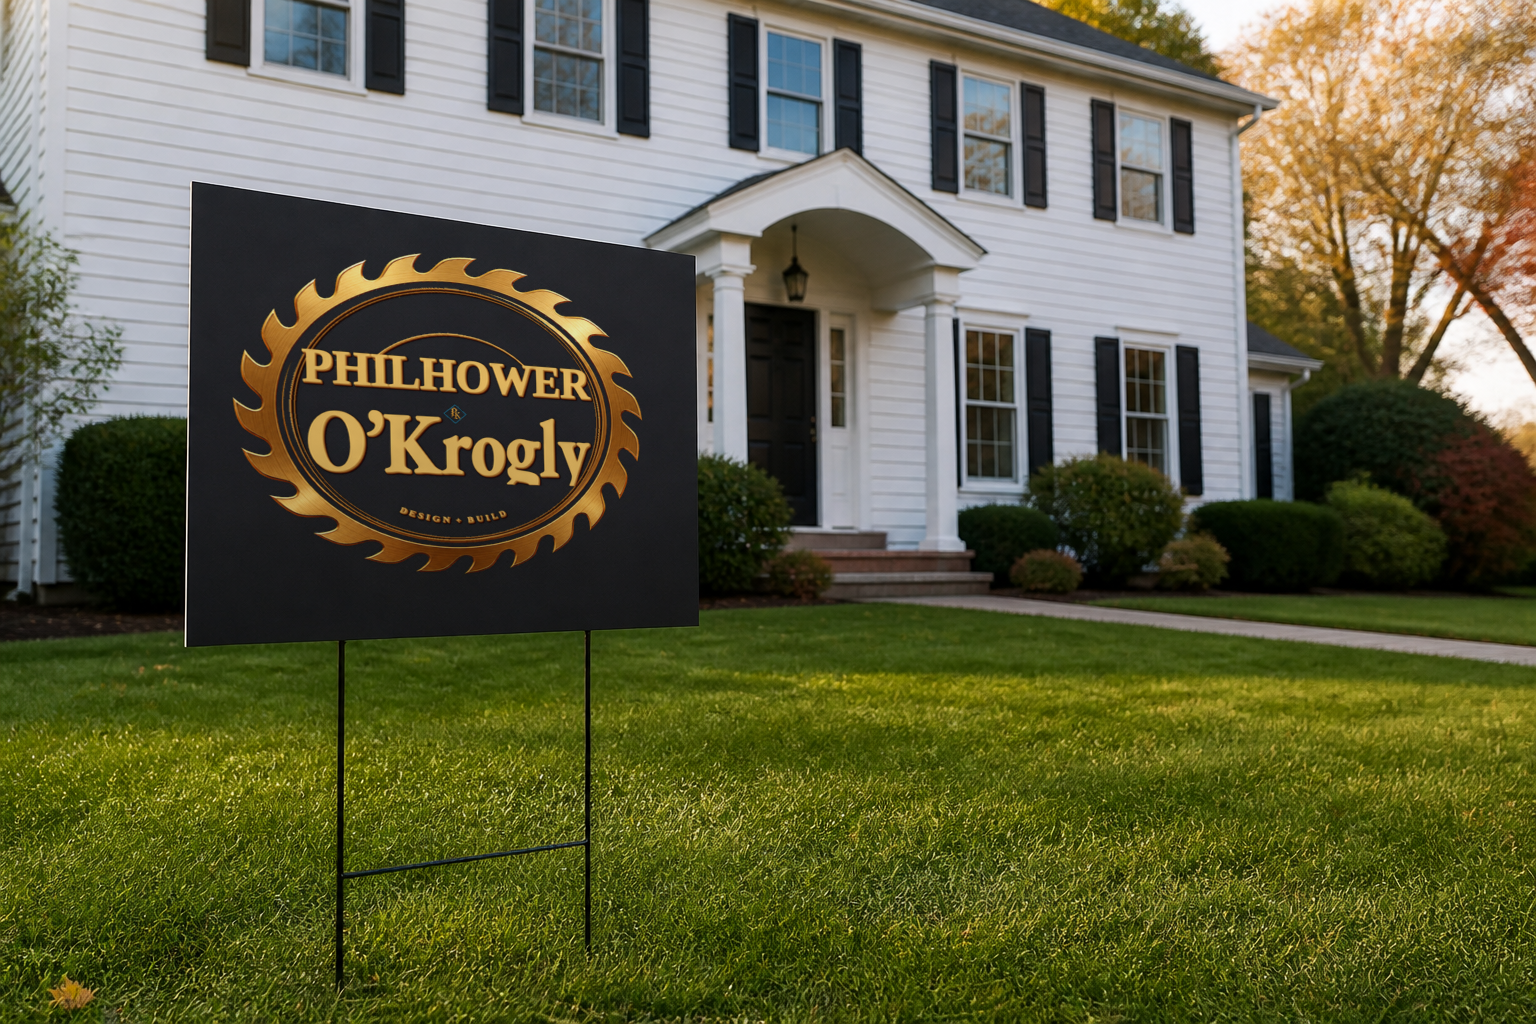
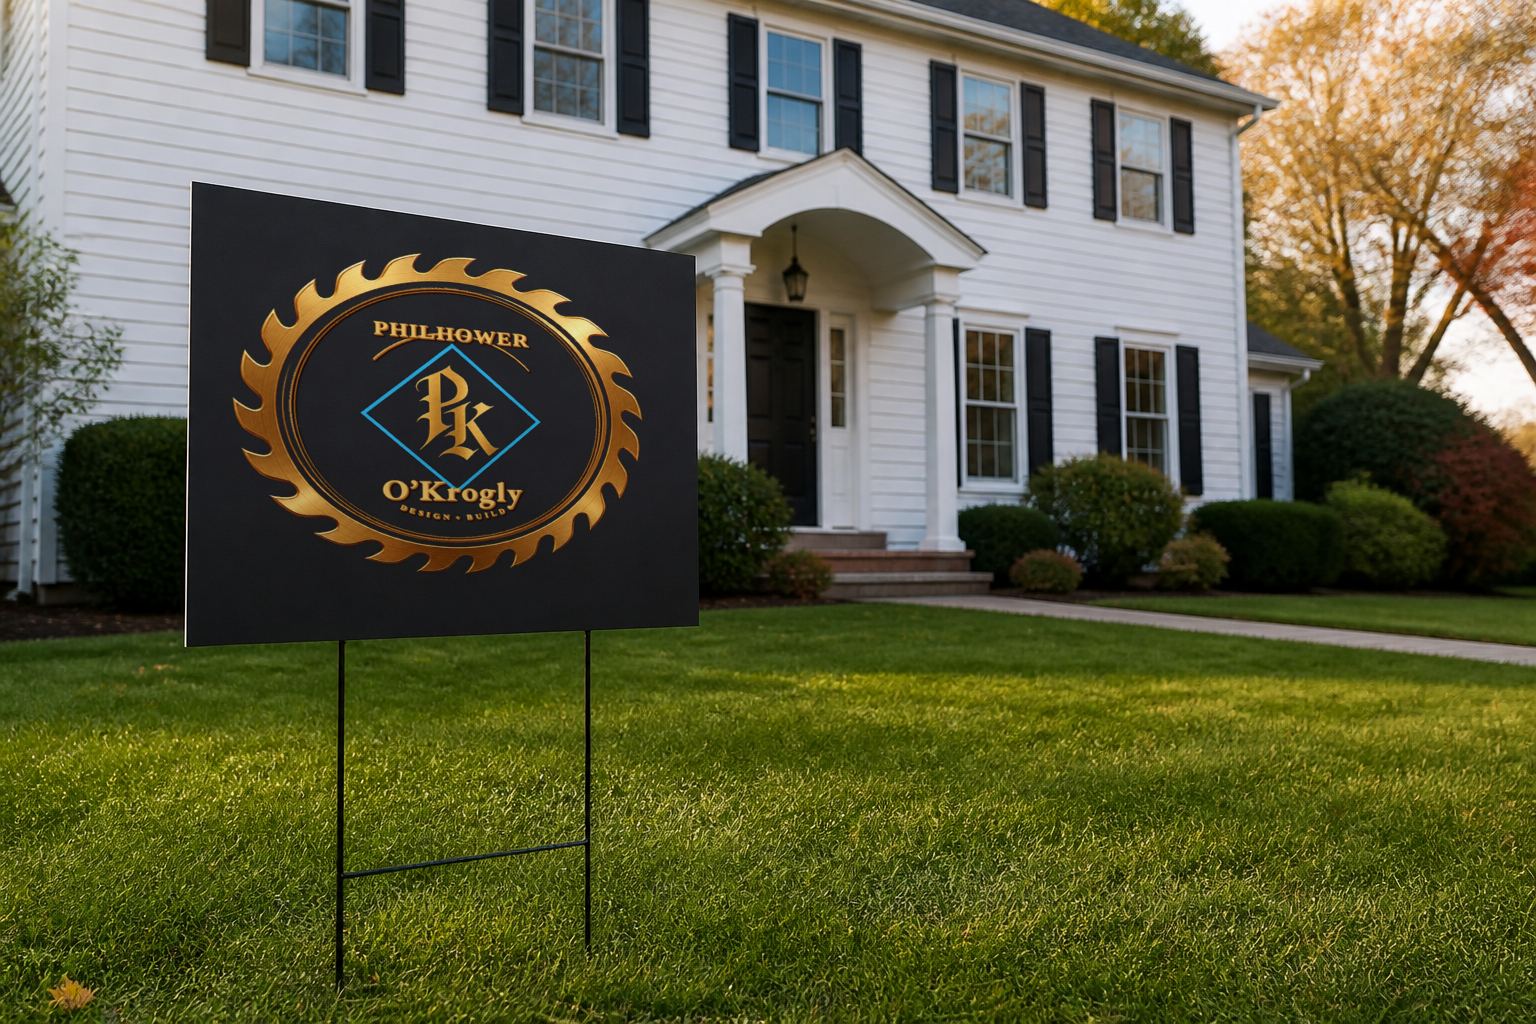
Make the cyan PK diamond the focus of the POK seal.
Names stay Times and Garamond on the rings. No house or hammer —
that is the generic NJ carpenter badge. Theme 1.0.27 / brands-print-20.

Changed region(s): [[0.1875, 0.3125, 0.4062, 0.5312]]

diff --git a/dphilhower-studio-wp/preview/work/philhower-okrogly/index.html b/dphilhower-studio-wp/preview/work/philhower-okrogly/index.html
@@ -41,7 +41,7 @@
         <li><strong>Place</strong><br>Northern New Jersey</li>
       </ul>
       <div class="entry-content">
-        <p>Hills blade, double ring, top arc. Big type like Service The Hills: PHILHOWER in modern Times New Roman, cyan PK diamond, O’Krogly in Garamond filling the field. DESIGN + BUILD on the bottom arc.</p>
+        <p>Hills blade, double ring, top arc. The cyan PK diamond is the mark. PHILHOWER in Times, O’Krogly in Garamond on the rings. DESIGN + BUILD on the bottom arc.</p>
         <p>One lockup. Polo, van, yard, card, fridge. Black field so gold reads. Blue is only the diamond.</p>
       </div>
     </article>
@@ -56,7 +56,7 @@
         </figure>
         <figure>
           <img src="../../img/pok-print-shirt.png" alt="Black polo with the Philhower &amp; O’Krogly saw-blade lockup centered on the chest" width="1536" height="1024">
-          <figcaption><strong>Polo</strong> Center chest. Times, cyan PK diamond, Garamond — one lockup.</figcaption>
+          <figcaption><strong>Polo</strong> Center chest. Cyan PK diamond is the focus; Times and Garamond on the rings.</figcaption>
         </figure>
         <figure>
           <img src="../../img/pok-print-van.png" alt="Matte black van with the Philhower &amp; O’Krogly saw-blade lockup on the side" width="1536" height="1024">

diff --git a/dphilhower-studio-wp/theme/dphilhower-studio/style.css b/dphilhower-studio-wp/theme/dphilhower-studio/style.css
@@ -4,7 +4,7 @@ Theme URI: https://dphilhower.com
 Author: D Philhower Studio
 Author URI: https://dphilhower.com
 Description: Custom graphic design studio theme for D Philhower Studio at dphilhower.com — portfolio, services, about, and project inquiries. Activate the theme to load demo pages and work samples.
-Version: 1.0.26
+Version: 1.0.27
 Requires at least: 6.4
 Tested up to: 6.8
 Requires PHP: 7.4

diff --git a/dphilhower-studio-wp/theme/dphilhower-studio/inc/brand-kits.php b/dphilhower-studio-wp/theme/dphilhower-studio/inc/brand-kits.php
@@ -289,7 +289,7 @@ function dps_brand_kits() {
 		'philhower-okrogly'        => array(
 			'label'  => __( 'Print system', 'dphilhower-studio' ),
 			'title'  => __( 'One lockup, five scales', 'dphilhower-studio' ),
-			'intro'  => __( 'Hills blade, double ring, top arc. Big type like Service The Hills: Times PHILHOWER, cyan PK diamond, Garamond O’Krogly filling the field. DESIGN + BUILD on the bottom arc. Polo, van, yard, card, fridge — one lockup.', 'dphilhower-studio' ),
+			'intro'  => __( 'Hills blade, double ring, top arc. The cyan PK diamond is the mark. Times PHILHOWER and Garamond O’Krogly on the rings. DESIGN + BUILD on the bottom arc. Polo, van, yard, card, fridge — one lockup.', 'dphilhower-studio' ),
 			'pieces' => array(
 				array(
 					'file'    => 'pok-seal-hero.png',
@@ -301,7 +301,7 @@ function dps_brand_kits() {
 					'file'    => 'pok-print-shirt.png',
 					'alt'     => __( 'Black polo with the Philhower & O’Krogly saw-blade lockup centered on the chest', 'dphilhower-studio' ),
 					'heading' => __( 'Polo', 'dphilhower-studio' ),
-					'story'   => __( 'Center chest. Times, cyan PK diamond, Garamond — one lockup.', 'dphilhower-studio' ),
+					'story'   => __( 'Center chest. Cyan PK diamond is the focus; Times and Garamond on the rings.', 'dphilhower-studio' ),
 				),
 				array(
 					'file'    => 'pok-print-van.png',

diff --git a/dphilhower-studio-wp/theme/dphilhower-studio/inc/setup-content.php b/dphilhower-studio-wp/theme/dphilhower-studio/inc/setup-content.php
@@ -326,7 +326,7 @@ function dps_seed_demo_content( $force = false ) {
 			'services' => 'Identity · embroidery · vehicle · signage',
 			'year'     => '2025',
 			'location' => 'Northern New Jersey',
-			'content'  => '<p>Hills blade, double ring, top arc. Big type like Service The Hills: PHILHOWER in modern Times New Roman, cyan PK diamond, O’Krogly in Garamond filling the field. DESIGN + BUILD on the bottom arc.</p><p>One lockup. Polo, van, yard, card, fridge. Black field so gold reads. Blue is only the diamond.</p>',
+			'content'  => '<p>Hills blade, double ring, top arc. The cyan PK diamond is the mark. PHILHOWER in Times, O’Krogly in Garamond on the rings. DESIGN + BUILD on the bottom arc.</p><p>One lockup. Polo, van, yard, card, fridge. Black field so gold reads. Blue is only the diamond.</p>',
 		),
 		array(
 			'slug'     => 'cafe-robust',
@@ -461,7 +461,7 @@ function dps_seed_demo_content( $force = false ) {
 	flush_rewrite_rules();
 
 	update_option( 'dps_demo_seeded', DPS_VERSION );
-	update_option( 'dps_images_version', 'brands-print-19' );
+	update_option( 'dps_images_version', 'brands-print-20' );
 	return true;
 }
 

diff --git a/dphilhower-studio-wp/theme/dphilhower-studio/functions.php b/dphilhower-studio-wp/theme/dphilhower-studio/functions.php
@@ -9,7 +9,7 @@ if ( ! defined( 'ABSPATH' ) ) {
 	exit;
 }
 
-define( 'DPS_VERSION', '1.0.26' );
+define( 'DPS_VERSION', '1.0.27' );
 define( 'DPS_DIR', get_template_directory() );
 define( 'DPS_URI', get_template_directory_uri() );
 
@@ -164,14 +164,14 @@ function dps_maybe_upgrade_images() {
 	if ( 'dphilhower-studio' !== get_stylesheet() ) {
 		return;
 	}
-	if ( get_option( 'dps_images_version' ) === 'brands-print-19' ) {
+	if ( get_option( 'dps_images_version' ) === 'brands-print-20' ) {
 		return;
 	}
 	if ( ! get_option( 'dps_demo_seeded' ) ) {
 		return;
 	}
 	dps_seed_demo_content( true );
-	update_option( 'dps_images_version', 'brands-print-19' );
+	update_option( 'dps_images_version', 'brands-print-20' );
 }
 
 /**
